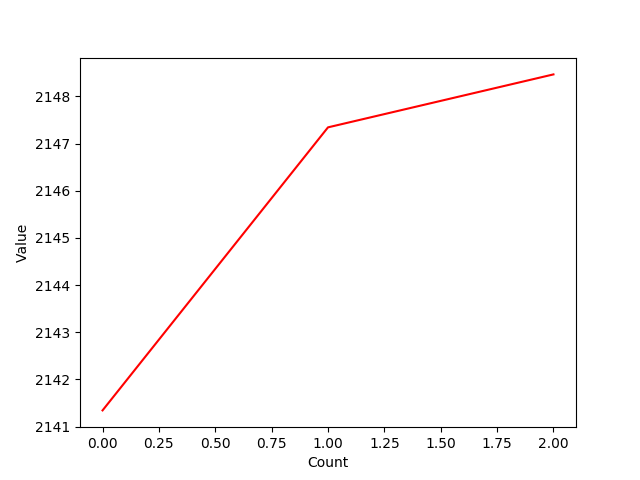
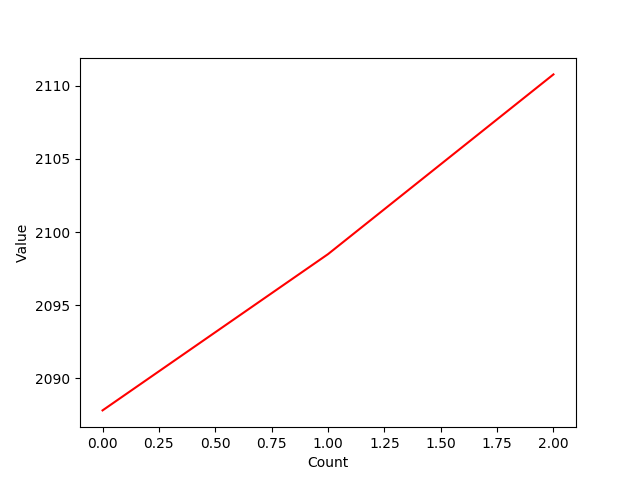
Automated Commision

diff --git a/sequential.py b/sequential.py
@@ -18,9 +18,19 @@ if __name__ == "__main__":
     timeseries, final_close = fetch_last_time_series(st, QUARTER)
     prediction_matrix = []
 
+    fear_index = int(input("\nInsert fear index [1 ~ 10]: "))
+
     for count in range(3):
         trend = moving_average(timeseries, MONTH)
         trend_close_diff = final_close - trend[len(trend) - 1]
+
+        recent_bias = 0.00
+        for i in range(len(trend) - 1, len(trend) - 3, -1):
+            if (trend[i] > trend[i - 1]) | (trend[i] < trend[i - 1]):
+                recent_bias += trend[i] - trend[i - 1]
+        recent_bias /= 3
+        recent_bias *= fear_index
+
         matrix = sampling(trend, 0, 2, STANDARD_SAMPLING_RANGE)
         timeseries.set_sampled_matrix(matrix)
         timeseries.normalize_timeseries()
@@ -30,9 +40,8 @@ if __name__ == "__main__":
         for i in range(result.shape[0]):
             for j in range(result.shape[1]):
                 prediction = rescale(result[i][j], timeseries.minimum(), timeseries.maximum())
-                # compare the distance of the last close price
-                # and the moving average trend line to add bias to the prediction
-                prediction += trend_close_diff
+                # compare the distance of the last close price and the moving average trend line to add bias to the prediction
+                prediction += trend_close_diff + recent_bias
         prediction_matrix.append(prediction)
         raw = timeseries.raw_matrix()
         for i in range(0, len(raw)):
